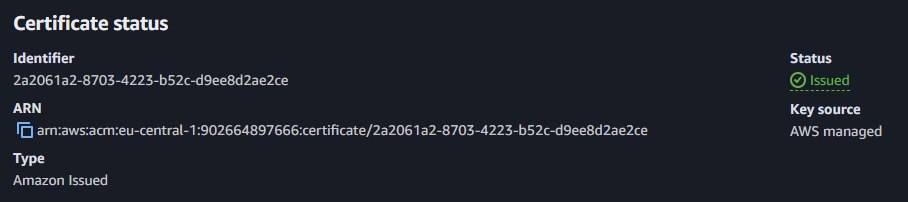
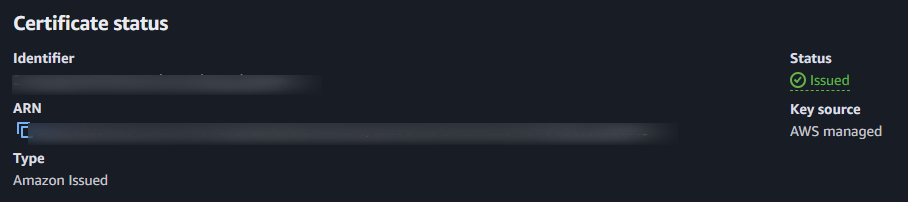
Improve public-safe screenshot blurring

Changed region(s): [[0.0308, 0.5941, 0.7093, 0.7129], [0.0, 0.3564, 0.3392, 0.4455]]

diff --git a/README.md b/README.md
@@ -741,38 +741,65 @@ resources to reduce cost.
 
 ## Screenshots
 
-Place screenshots under:
+The screenshots below are public-safe documentation assets. Sensitive values
+such as AWS account IDs, ARNs, VPC IDs, subnet IDs, private IP addresses,
+database endpoints, and secret identifiers are blurred before publishing.
 
-```text
-docs/screenshots/
-```
+### 1. Swagger API Documentation
 
-Recommended files:
+![Swagger API documentation](docs/screenshots/01-swagger-docs.png)
 
-| Filename | What to capture |
-| --- | --- |
-| `01-swagger-docs.png` | `https://api.ridham-pansara-portfolio.online/docs` showing the API endpoints |
-| `02-https-health.png` | Browser or terminal showing HTTPS `/health` success |
-| `03-task-crud-response.png` | Successful task creation response with `priority` |
-| `04-github-ci-success.png` | Successful Continuous Integration workflow |
-| `05-github-deploy-success.png` | Successful Deploy to AWS ECS workflow |
-| `06-ecs-service-running.png` | ECS service showing desired `1`, running `1` |
-| `07-alb-target-healthy.png` | ALB target group showing healthy ECS target |
-| `08-rds-private-config.png` | RDS configuration showing publicly accessible `No` |
-| `09-secrets-manager-database.png` | Secrets Manager database secret metadata, without showing secret values |
-| `10-cloudwatch-logs.png` | CloudWatch log stream with FastAPI request logs |
-| `11-cloudwatch-alarms.png` | CloudWatch alarms list |
-| `12-terraform-outputs.png` | Terraform outputs with sensitive values hidden |
-| `13-acm-certificate-issued.png` | ACM certificate status `Issued` |
-| `14-architecture-diagram.png` | Final architecture diagram |
+### 2. HTTPS Health Check
 
-Do not include screenshots that expose:
+![HTTPS health check](docs/screenshots/02-https-health.png)
 
-- AWS access keys.
-- Secret values.
-- Database passwords.
-- Full Terraform state.
-- Private environment files.
+### 3. Task CRUD Response
+
+![Task CRUD response](docs/screenshots/03-task-crud-response.png)
+
+### 4. GitHub CI Success
+
+![GitHub CI success](docs/screenshots/04-github-ci-success.png)
+
+### 5. GitHub Deploy Success
+
+![GitHub deploy success](docs/screenshots/05-github-deploy-success.png)
+
+### 6. ECS Service Running
+
+![ECS service running](docs/screenshots/06-ecs-service-running.png)
+
+### 7. ALB Target Healthy
+
+![ALB target healthy](docs/screenshots/07-alb-target-healthy.png)
+
+### 8. RDS Private Configuration
+
+![RDS private configuration](docs/screenshots/08-rds-private-config.png)
+
+### 9. Secrets Manager Database Secret
+
+![Secrets Manager database secret](docs/screenshots/09-secrets-manager-database.png)
+
+### 10. CloudWatch Logs
+
+![CloudWatch logs](docs/screenshots/10-cloudwatch-logs.png)
+
+### 11. CloudWatch Alarms
+
+![CloudWatch alarms](docs/screenshots/11-cloudwatch-alarms.png)
+
+### 12. Terraform Outputs
+
+![Terraform outputs](docs/screenshots/12-terraform-outputs.png)
+
+### 13. ACM Certificate Issued
+
+![ACM certificate issued](docs/screenshots/13-acm-certificate-issued.png)
+
+Do not publish screenshots that expose AWS access keys, secret values, database
+passwords, full Terraform state, private `.env` files, or unblurred AWS account
+IDs.
 
 ## Troubleshooting
 
